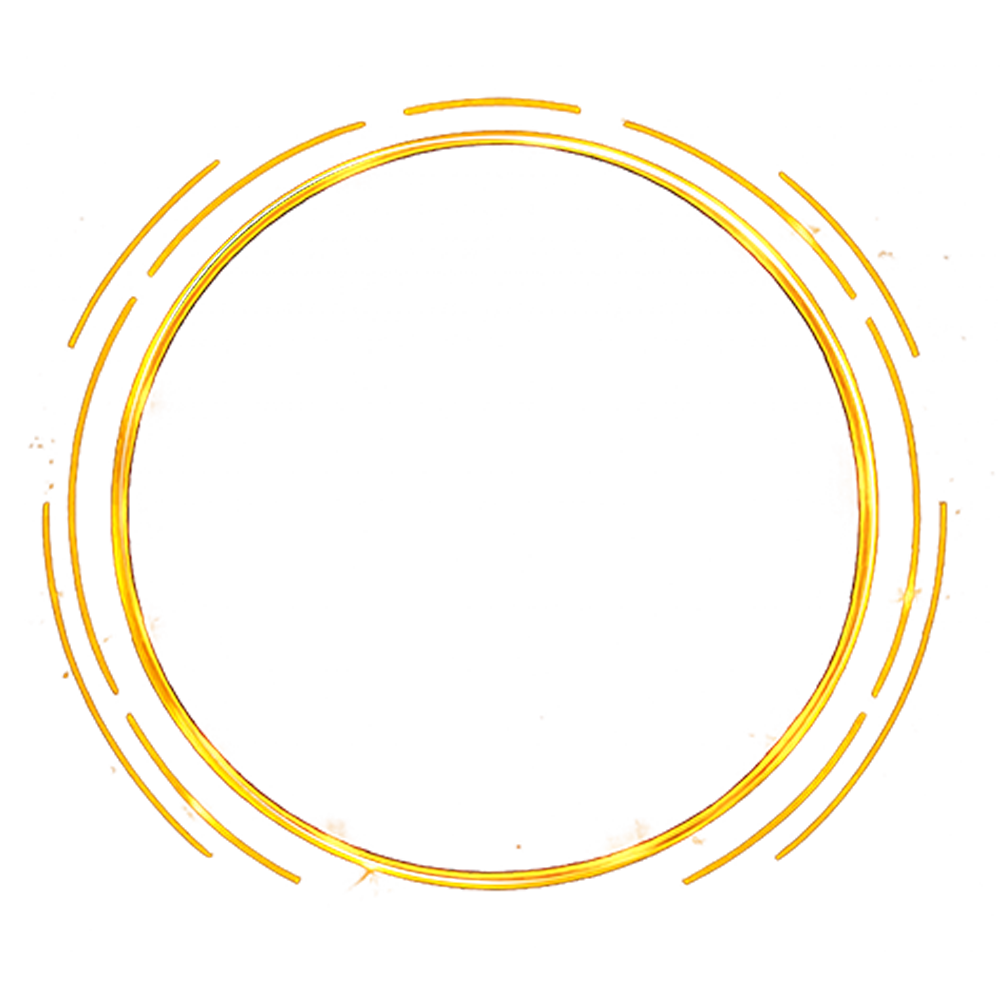
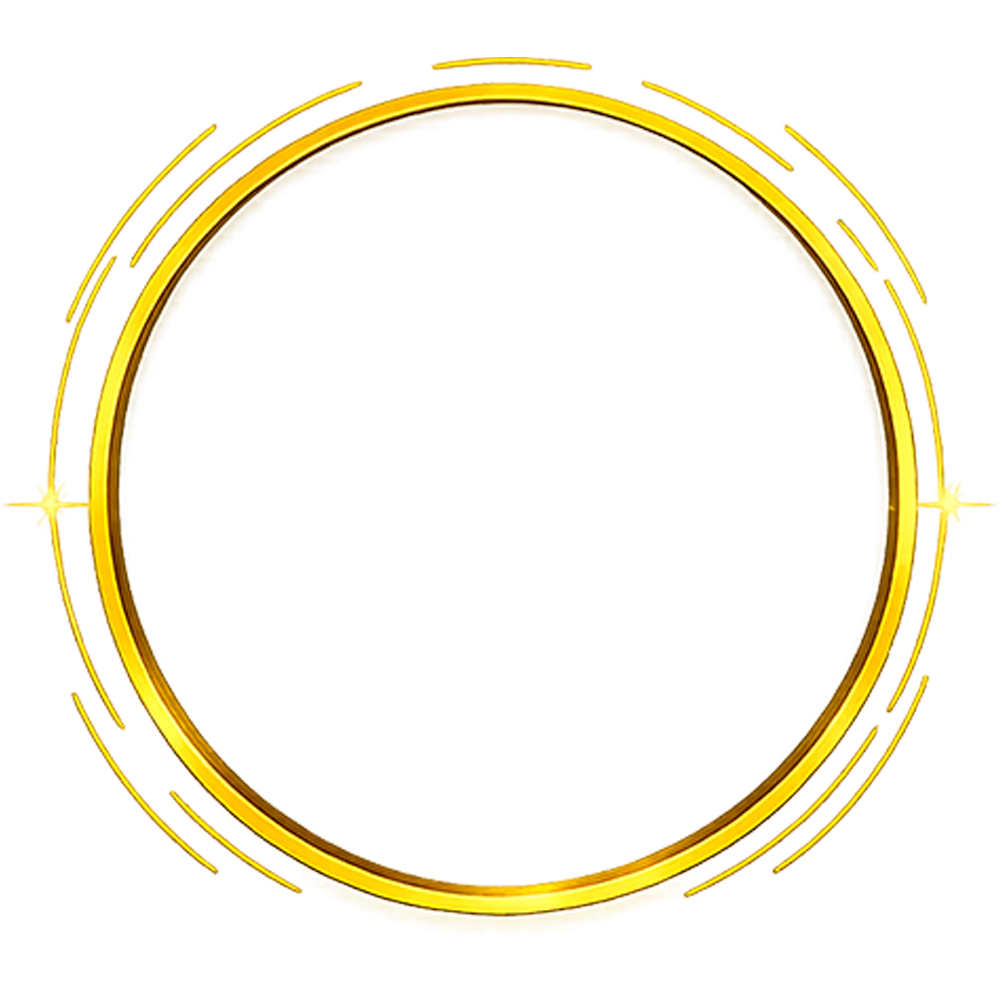
bd3: name pill gold bg, Roboto Mono font, auto-width, advanced settings popup, new passkey, prompt fixes

Changed region(s): [[0.0, 0.031, 0.992, 0.93]]

diff --git a/components/bd3/generator.tsx b/components/bd3/generator.tsx
@@ -5,17 +5,24 @@ import { toPng } from "html-to-image";
 import {
   Upload, Download, Copy, Check, RefreshCcw,
   Eye, Pencil, Wand2, User, MessageSquare,
-  Lock, Camera, Palette, Stars, Crop, Sun, Moon,
+  Lock, Camera, Palette, Stars, Crop, Sun, Moon, Settings2,
 } from "lucide-react";
 import { PostTemplate3 } from "./post-template";
 import { CropModal3 } from "./crop-modal";
 import { LoadingOverlay } from "./loading-overlay";
 import { TEMPLATES3 } from "./templates";
-import type { FormData3, ImageTransform3 } from "./types";
+import type { FormData3, ImageTransform3, NameStyle } from "./types";
 import { loadImageFile } from "@/lib/utils";
 
 // Matches MAX_ATTEMPTS on the server — used as fallback display cap
 const MAX_ATTEMPTS_DISPLAY = 20;
+
+const DEFAULT_NAME_STYLE: NameStyle = {
+  borderRadius: 10,
+  fontSize: 48,
+  paddingY: 8,
+  marginTop: 0,
+};
 
 const DEFAULT_FORM: FormData3 = {
   name: "",
@@ -23,9 +30,10 @@ const DEFAULT_FORM: FormData3 = {
   faculty: "Faculty of Technology",
   university: "University of Ruhuna",
   profileImage: null,
-  message: "Wishing you a spectacular birthday! As you mark another milestone in your life today, take a moment to celebrate not just how far you have come, but the incredible person you are becoming. May this special day be filled with the warmth of love, the echo of laughter, and moments that turn into cherished memories.",
+  message: "Wishing you a remarkable birthday filled with continued success, happiness, and fulfillment in all your professional endeavors. May this upcoming year bring exciting new milestones, growth, and the wonderful opportunities you truly deserve. Cheers to celebrating your inspiring journey and wishing you a prosperous year ahead! ✨ 💛 🌿",
   templateId: "t1",
   access: false,
+  nameStyle: DEFAULT_NAME_STYLE,
 };
 
 /* ─── Field ─────────────────────────────────────── */
@@ -78,13 +86,14 @@ export default function BirthdayGenerator3() {
   const [scale, setScale] = useState(0.3);
   const [accessInput, setAccessInput] = useState("");
   const [theme, setTheme] = useState<"dark" | "light">("dark");
+  const [showNameSettings, setShowNameSettings] = useState(false);
 
   const hiddenRef = useRef<HTMLDivElement>(null);
   const fileRef = useRef<HTMLInputElement>(null);
   const previewRef = useRef<HTMLDivElement>(null);
 
   const selectedTemplate = TEMPLATES3.find((t) => t.id === form.templateId) || TEMPLATES3[0];
-  const PASS_KEY = process.env.NEXT_PUBLIC_PASS_key;
+  const PASS_KEY = process.env.NEXT_PUBLIC_PASS_key_bd3;
 
   useEffect(() => {
     const update = () => {
@@ -921,6 +930,38 @@ export default function BirthdayGenerator3() {
         }
         .bd3-preview-card:hover { box-shadow: 0 40px 100px rgba(0,0,0,0.9), 0 0 40px rgba(124,58,237,0.1), 0 0 0 1px rgba(255,255,255,0.06); }
 
+        /* ── Slider (Advanced Settings) ── */
+        .bd3-slider {
+          width: 100%; height: 4px; border-radius: 99px;
+          appearance: none; -webkit-appearance: none;
+          background: rgba(255,255,255,0.1);
+          outline: none; cursor: pointer;
+          accent-color: #a78bfa;
+        }
+        .bd3-slider::-webkit-slider-thumb {
+          appearance: none; -webkit-appearance: none;
+          width: 16px; height: 16px; border-radius: 50%;
+          background: #a78bfa;
+          box-shadow: 0 0 0 3px rgba(167,139,250,0.25);
+          cursor: pointer; transition: box-shadow 0.15s;
+        }
+        .bd3-slider::-webkit-slider-thumb:hover { box-shadow: 0 0 0 5px rgba(167,139,250,0.35); }
+        .bd3-slider:disabled { opacity: 0.35; cursor: not-allowed; }
+        .bd3-slider-marks {
+          display: flex; justify-content: space-between;
+          font-size: 9.5px; color: rgba(255,255,255,0.25);
+          margin-top: 3px; font-weight: 500;
+        }
+        .bd3-slider-auto-btn {
+          flex-shrink: 0; padding: 5px 10px; border-radius: 8px;
+          border: 1px solid rgba(167,139,250,0.3);
+          background: rgba(167,139,250,0.08);
+          color: #a78bfa; font-size: 11px; font-weight: 600;
+          cursor: pointer; white-space: nowrap; font-family: inherit;
+          transition: all 0.15s;
+        }
+        .bd3-slider-auto-btn:hover { background: rgba(167,139,250,0.18); border-color: rgba(167,139,250,0.55); }
+
         /* ── Animate pulse ── */
         .bd3-pulse { animation: bd3-pulse 1.5s ease-in-out infinite; }
         @keyframes bd3-pulse { 0%,100% { opacity: 1; } 50% { opacity: 0.55; } }
@@ -1055,13 +1096,82 @@ export default function BirthdayGenerator3() {
               {/* Person Details */}
               <SectionCard title="Person Details" icon={<User size={13} />} accent="#67e8f9">
                 <Field label="Full Name">
-                  <input
-                    className="bd3-input"
-                    type="text"
-                    value={form.name}
-                    onChange={(e) => set("name", e.target.value)}
-                    placeholder="Enter full name"
-                  />
+                  <div style={{ position: "relative" }}>
+                    <div style={{ display: "flex", gap: 8 }}>
+                      <input
+                        className="bd3-input"
+                        type="text"
+                        value={form.name}
+                        onChange={(e) => set("name", e.target.value)}
+                        placeholder="Enter full name"
+                        style={{ flex: 1 }}
+                      />
+                      <button
+                        title="Name style settings"
+                        onClick={() => setShowNameSettings((v) => !v)}
+                        style={{
+                          flexShrink: 0,
+                          width: 38, height: 38,
+                          borderRadius: 10,
+                          border: showNameSettings
+                            ? "1px solid rgba(212,175,55,0.6)"
+                            : "1px solid rgba(255,255,255,0.09)",
+                          background: showNameSettings
+                            ? "rgba(212,175,55,0.15)"
+                            : "rgba(255,255,255,0.04)",
+                          color: showNameSettings ? "#d4af37" : "rgba(255,255,255,0.4)",
+                          display: "flex", alignItems: "center", justifyContent: "center",
+                          cursor: "pointer", transition: "all 0.18s",
+                        }}
+                      >
+                        <Settings2 size={15} />
+                      </button>
+                    </div>
+
+                    {/* ── Popup panel ── */}
+                    {showNameSettings && (
+                      <div style={{
+                        position: "absolute",
+                        top: "calc(100% + 8px)",
+                        left: 0, right: 0,
+                        zIndex: 100,
+                        background: "#16162a",
+                        border: "1px solid rgba(212,175,55,0.3)",
+                        borderRadius: 14,
+                        padding: "14px 15px 16px",
+                        display: "flex",
+                        flexDirection: "column",
+                        gap: 12,
+                        boxShadow: "0 8px 32px rgba(0,0,0,0.6), 0 0 0 1px rgba(212,175,55,0.1)",
+                      }}>
+                        <div style={{ display: "flex", alignItems: "center", justifyContent: "space-between", marginBottom: 2 }}>
+                          <span style={{ fontSize: 10.5, fontWeight: 700, textTransform: "uppercase", letterSpacing: "0.09em", color: "rgba(212,175,55,0.8)" }}>Name Style</span>
+                          <button onClick={() => setForm((p) => ({ ...p, nameStyle: DEFAULT_NAME_STYLE }))}
+                            style={{ fontSize: 10, color: "rgba(255,255,255,0.3)", background: "none", border: "none", cursor: "pointer", padding: "2px 6px" }}>
+                            Reset
+                          </button>
+                        </div>
+
+                        {/* Font Size — 35–50px only */}
+                        <Field label="Font Size" hint={`${form.nameStyle.fontSize ?? 48}px`}>
+                          <input type="range" min={35} max={50} step={1}
+                            value={form.nameStyle.fontSize ?? 48}
+                            onChange={(e) => setForm((p) => ({ ...p, nameStyle: { ...p.nameStyle, fontSize: Number(e.target.value) } }))}
+                            className="bd3-slider" />
+                          <div className="bd3-slider-marks"><span>35</span><span>42</span><span>50</span></div>
+                        </Field>
+
+                        {/* Margin Top */}
+                        <Field label="Margin Top" hint={`${form.nameStyle.marginTop}px`}>
+                          <input type="range" min={0} max={200} step={5}
+                            value={form.nameStyle.marginTop}
+                            onChange={(e) => setForm((p) => ({ ...p, nameStyle: { ...p.nameStyle, marginTop: Number(e.target.value) } }))}
+                            className="bd3-slider" />
+                          <div className="bd3-slider-marks"><span>0</span><span>100</span><span>200</span></div>
+                        </Field>
+                      </div>
+                    )}
+                  </div>
                 </Field>
                 <div className="bd3-grid-2">
                   <Field label="Batch">

diff --git a/components/bd3/post-template.tsx b/components/bd3/post-template.tsx
@@ -52,7 +52,7 @@ export const PostTemplate3 = React.forwardRef<
   HTMLDivElement,
   { data: BirthdayPostData3; edit?: boolean }
 >(({ data, edit }, ref) => {
-  const { name, batch, faculty, university, profileImage, message, template, access } = data;
+  const { name, batch, faculty, university, profileImage, message, template, access, nameStyle } = data;
   const noAccess = edit && !access;
 
   return (
@@ -70,6 +70,15 @@ export const PostTemplate3 = React.forwardRef<
         fontFamily: "'Segoe UI', system-ui, -apple-system, sans-serif",
       }}
     >
+      {/* Load Roboto Mono for the name pill */}
+      <style>{`
+        @import url('https://fonts.googleapis.com/css2?family=Roboto+Mono:wght@700;900&display=swap');
+        .bd3-name-text {
+          font-family: "Roboto Mono", monospace;
+          font-optical-sizing: auto;
+          font-style: normal;
+        }
+      `}</style>
       {/* ── Access Overlay ── */}
       {noAccess && (
         <div
@@ -137,7 +146,7 @@ export const PostTemplate3 = React.forwardRef<
       <div
         style={{
           position: "absolute",
-          top: 350,
+          top: 320,
           left: "50%",
           transform: "translateX(-50%)",
           zIndex: 10,
@@ -161,20 +170,20 @@ export const PostTemplate3 = React.forwardRef<
         <div
           style={{
             position: "absolute",
-            width: 720,
-            height: 540,
+            width: 1220,
+            height: 700,
             backgroundImage: "url('/bd3/outline.png')",
             backgroundPosition: "center",
             backgroundRepeat: "no-repeat",
             backgroundSize: "contain",
-            zIndex: 7,
+            zIndex: 13,
           }}
         />
         {/* Frosted ring border */}
         <div
           style={{
-            width: 400,
-            height: 400,
+            width: 600,
+            height: 600,
             // borderRadius: "50%",
             // border: `3px solid ${template.accentColor}`,
             padding: 10,
@@ -222,7 +231,9 @@ export const PostTemplate3 = React.forwardRef<
       <div
         style={{
           position: "absolute",
-          top: 800,
+          bottom: 140,
+          // border: "1px solid red",
+          height:"400px",
           left: 0,
           width: "100%",
           zIndex: 15,
@@ -245,25 +256,73 @@ export const PostTemplate3 = React.forwardRef<
           }}
         />
 
-        {/* Name */}
-        <h2
-          style={{
-            margin: 0,
-            padding: 0,
-            fontSize: getNameFontSize(name),
-            fontWeight: 500,
-            lineHeight: 1.2,
-            letterSpacing: "0.18em",
-            textTransform: "uppercase",
-            textAlign: "center",
-            color: "rgba(255,255,255,0.92)",
-            textShadow: `0 2px 24px rgba(0,0,0,0.5), 0 0 60px ${template.accentGlow}`,
-            maxWidth: 960,
-            wordBreak: "break-word",
-          }}
-        >
-          {name || "YOUR NAME"}
-        </h2>
+        {/* Name — gold pill, CSS auto-width */}
+        {(() => {
+          const displayName = name || "YOUR NAME";
+          const autoFs = getNameFontSize(displayName);
+          const fs = nameStyle.fontSize ?? autoFs;
+          const padY = nameStyle.paddingY;
+          const radius = nameStyle.borderRadius;
+
+          return (
+            <div style={{ position: "relative", display: "inline-flex", marginTop: nameStyle.marginTop }}>
+
+              {/* Dark shadow wings */}
+              <div style={{
+                position: "absolute",
+                inset: 0,
+                borderRadius: radius,
+                boxShadow: [
+                  "0 0 60px 10px rgba(0,0,0,0.85)",
+                  "0 0 120px 10px rgba(0,0,0,0.5)",
+                ].join(", "),
+                zIndex: 0,
+                pointerEvents: "none",
+              }} />
+
+              {/* Gold pill — width fully auto from CSS */}
+              <div
+                style={{
+                  position: "relative",
+                  zIndex: 1,
+                  display: "inline-flex",
+                  alignItems: "center",
+                  justifyContent: "center",
+                  borderRadius: radius,
+                  backgroundImage: "url('/bd3/text-bg.jpg')",
+                  backgroundSize: "cover",
+                  backgroundPosition: "center",
+                  border: "2px solid rgba(180,130,0,0.6)",
+                  boxShadow: [
+                    "inset 0 1px 0 rgba(255,220,80,0.4)",
+                    "0 6px 24px rgba(0,0,0,0.8)",
+                    "0 2px 6px rgba(0,0,0,0.9)",
+                  ].join(", "),
+                  overflow: "hidden",
+                }}
+              >
+                <h2
+                  className="bd3-name-text"
+                  style={{
+                    margin: 0,
+                    padding: `${padY}px 32px`,
+                    fontSize: fs,
+                    fontWeight: 900,
+                    lineHeight: 1.3,
+                    letterSpacing: "0.12em",
+                    textTransform: "uppercase",
+                    textAlign: "center",
+                    color: "#0a0a0a",
+                    whiteSpace: "nowrap",
+                    textShadow: "0 1px 2px rgba(0,0,0,0.25)",
+                  }}
+                >
+                  {displayName}
+                </h2>
+              </div>
+            </div>
+          );
+        })()}
 {/* Separator image */}
           <div
             style={{

diff --git a/components/bd3/types.ts b/components/bd3/types.ts
@@ -16,6 +16,7 @@ export interface BirthdayPostData3 {
   message: string;
   template: BirthdayTemplate3;
   access: boolean;
+  nameStyle: NameStyle;
 }
 
 export interface FormData3 {
@@ -27,6 +28,14 @@ export interface FormData3 {
   message: string;
   templateId: string;
   access: boolean;
+  nameStyle: NameStyle;
+}
+
+export interface NameStyle {
+  borderRadius: number;   // 0–60, default 10
+  fontSize: number | null; // null = auto, otherwise 35–50
+  paddingY: number;       // 8–60, default 8
+  marginTop: number;      // 0–200, default 0
 }
 
 export interface ImageTransform3 {

diff --git a/app/api/bd3/msg/route.ts b/app/api/bd3/msg/route.ts
@@ -134,10 +134,11 @@ export async function POST(req: Request) {
             {
               role: "user",
               content:
-                `Write a warm birthday wish as ONE short paragraph (2–3 sentences, roughly 50 words).\n` +
+                `Write a warm, professional birthday wish as ONE short paragraph (2–3 sentences, roughly 50 words).\n` +
                 `Rules:\n` +
                 `• No names or titles\n` +
                 `• 2–3 elegant emojis (✨ 💛 🌿 🎂 🌸) woven in naturally\n` +
+                `• Tone: Professional, inspiring, and focused on growth, success, and future milestones\n` +
                 `• Style: ${style}\n` +
                 `• Keep it concise — do not write more than 3 sentences\n` +
                 `• Variation: ${variationTag}`,